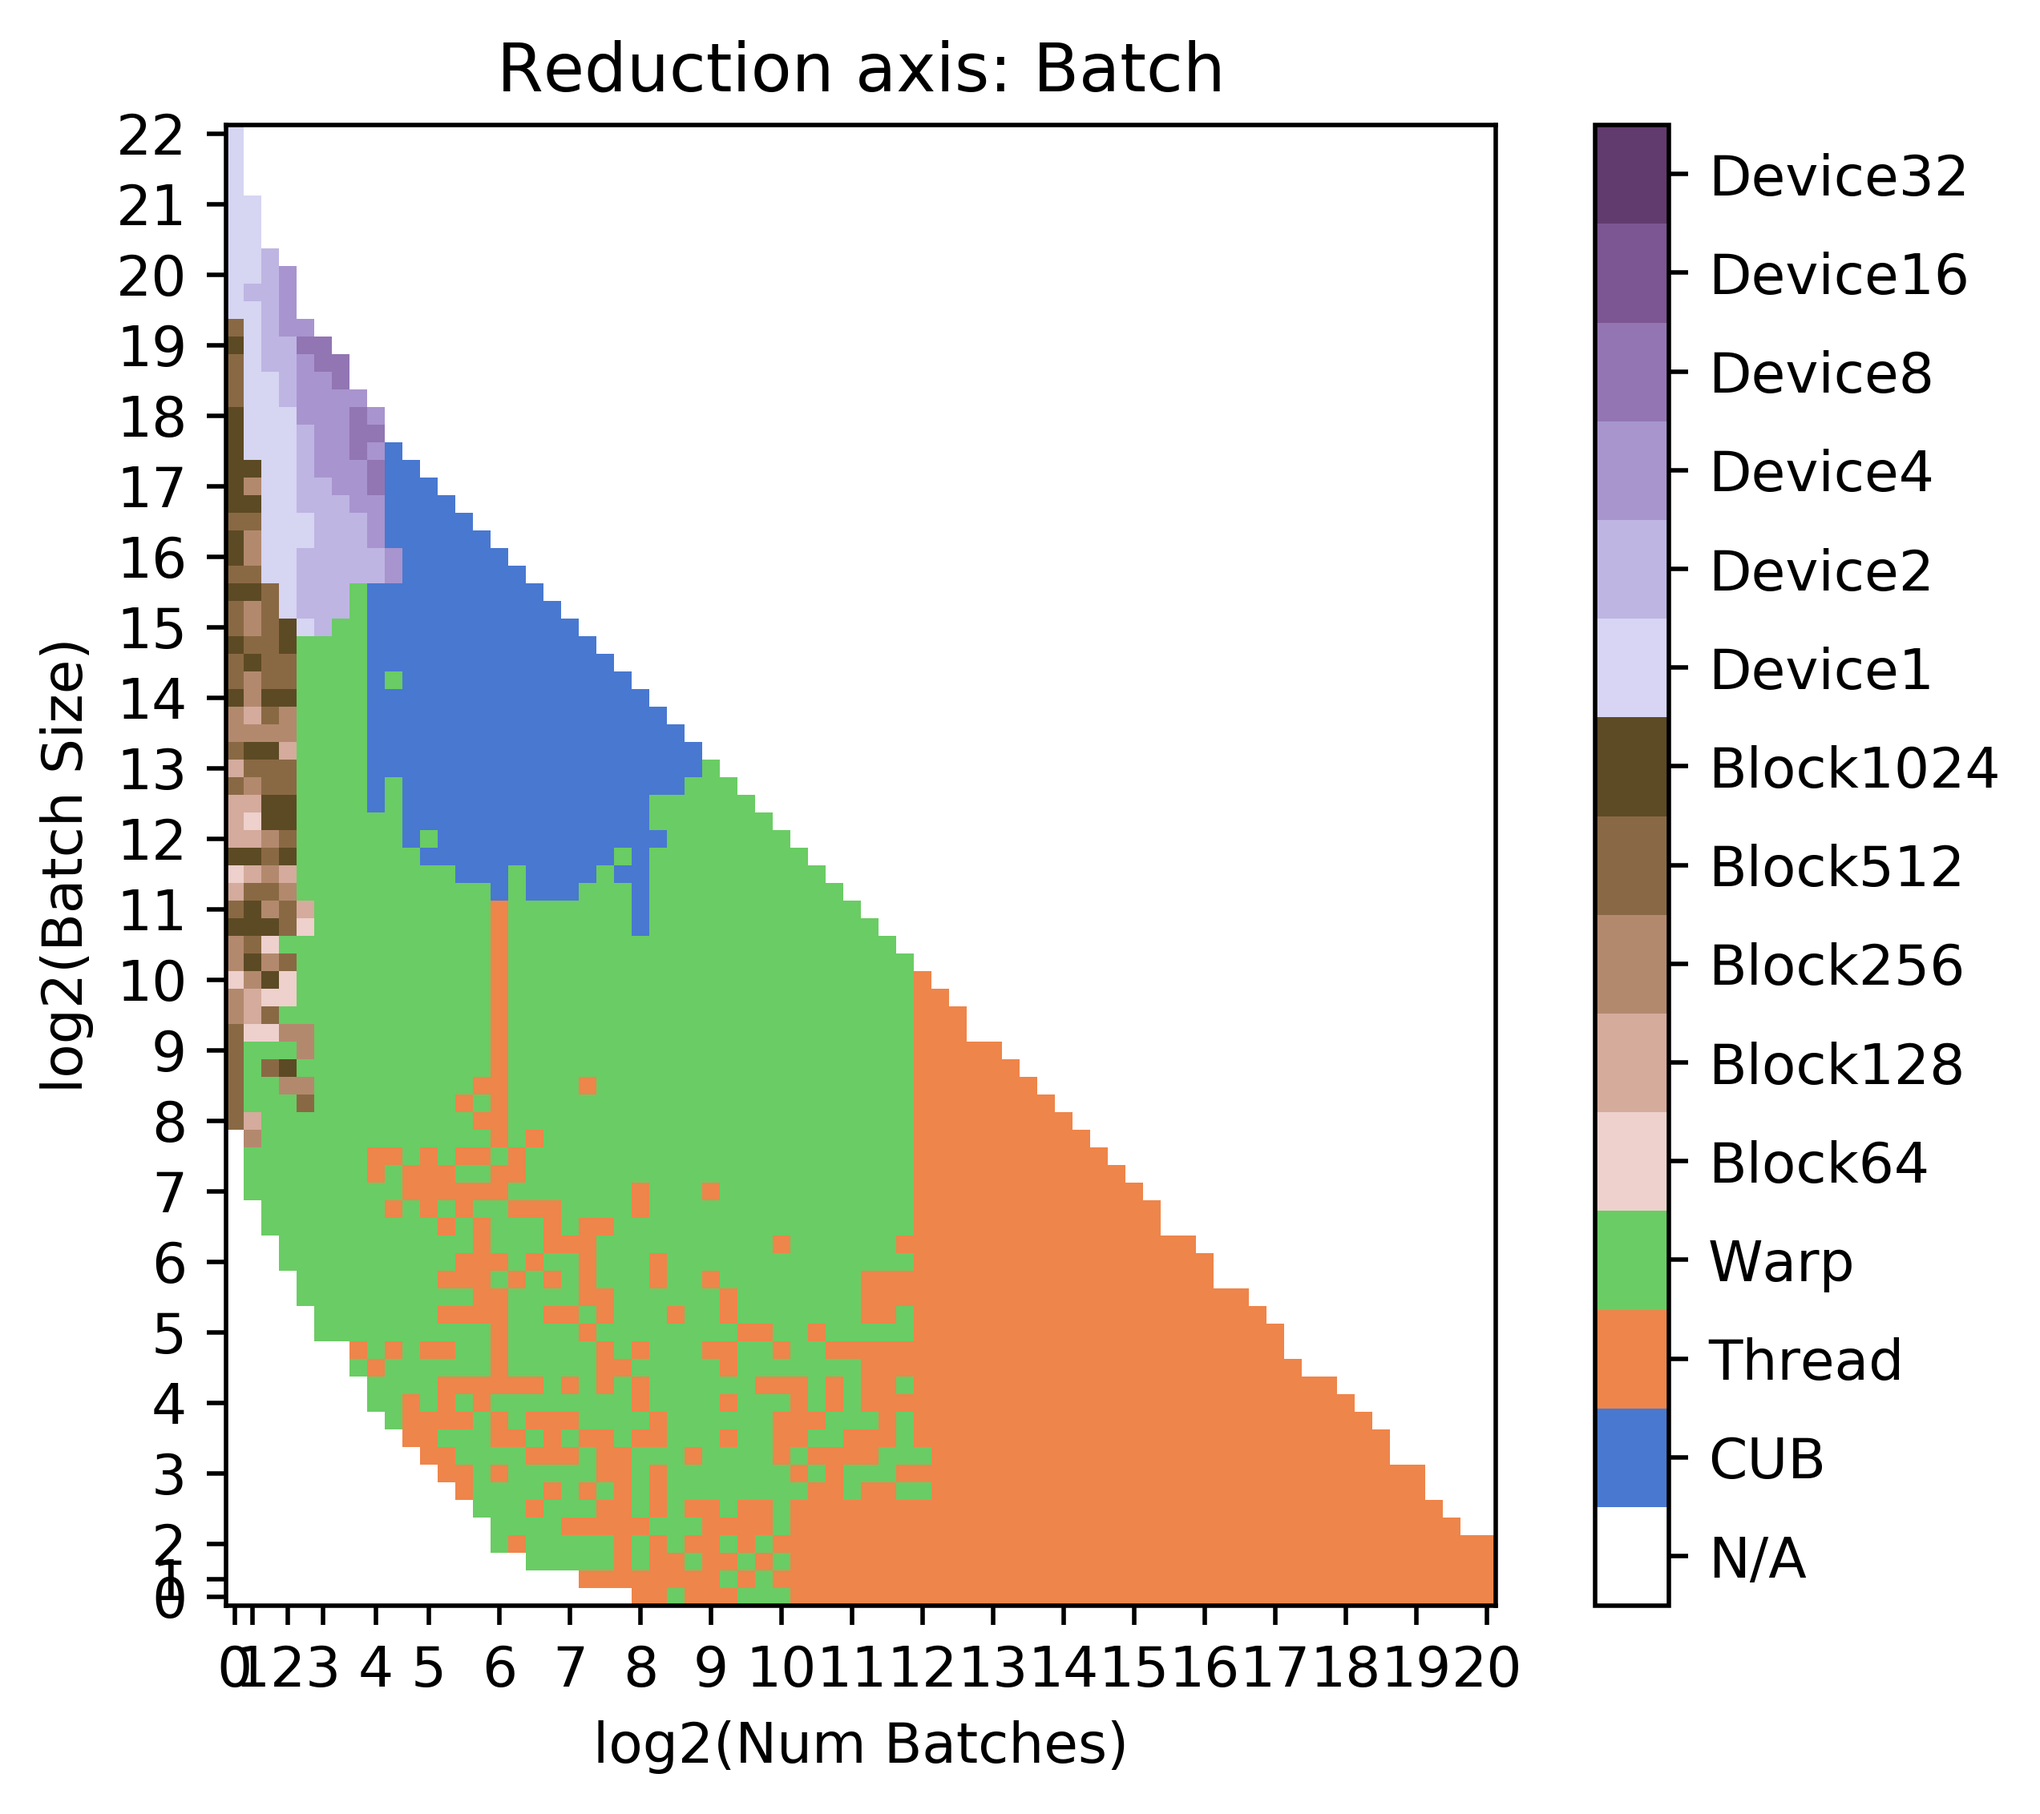
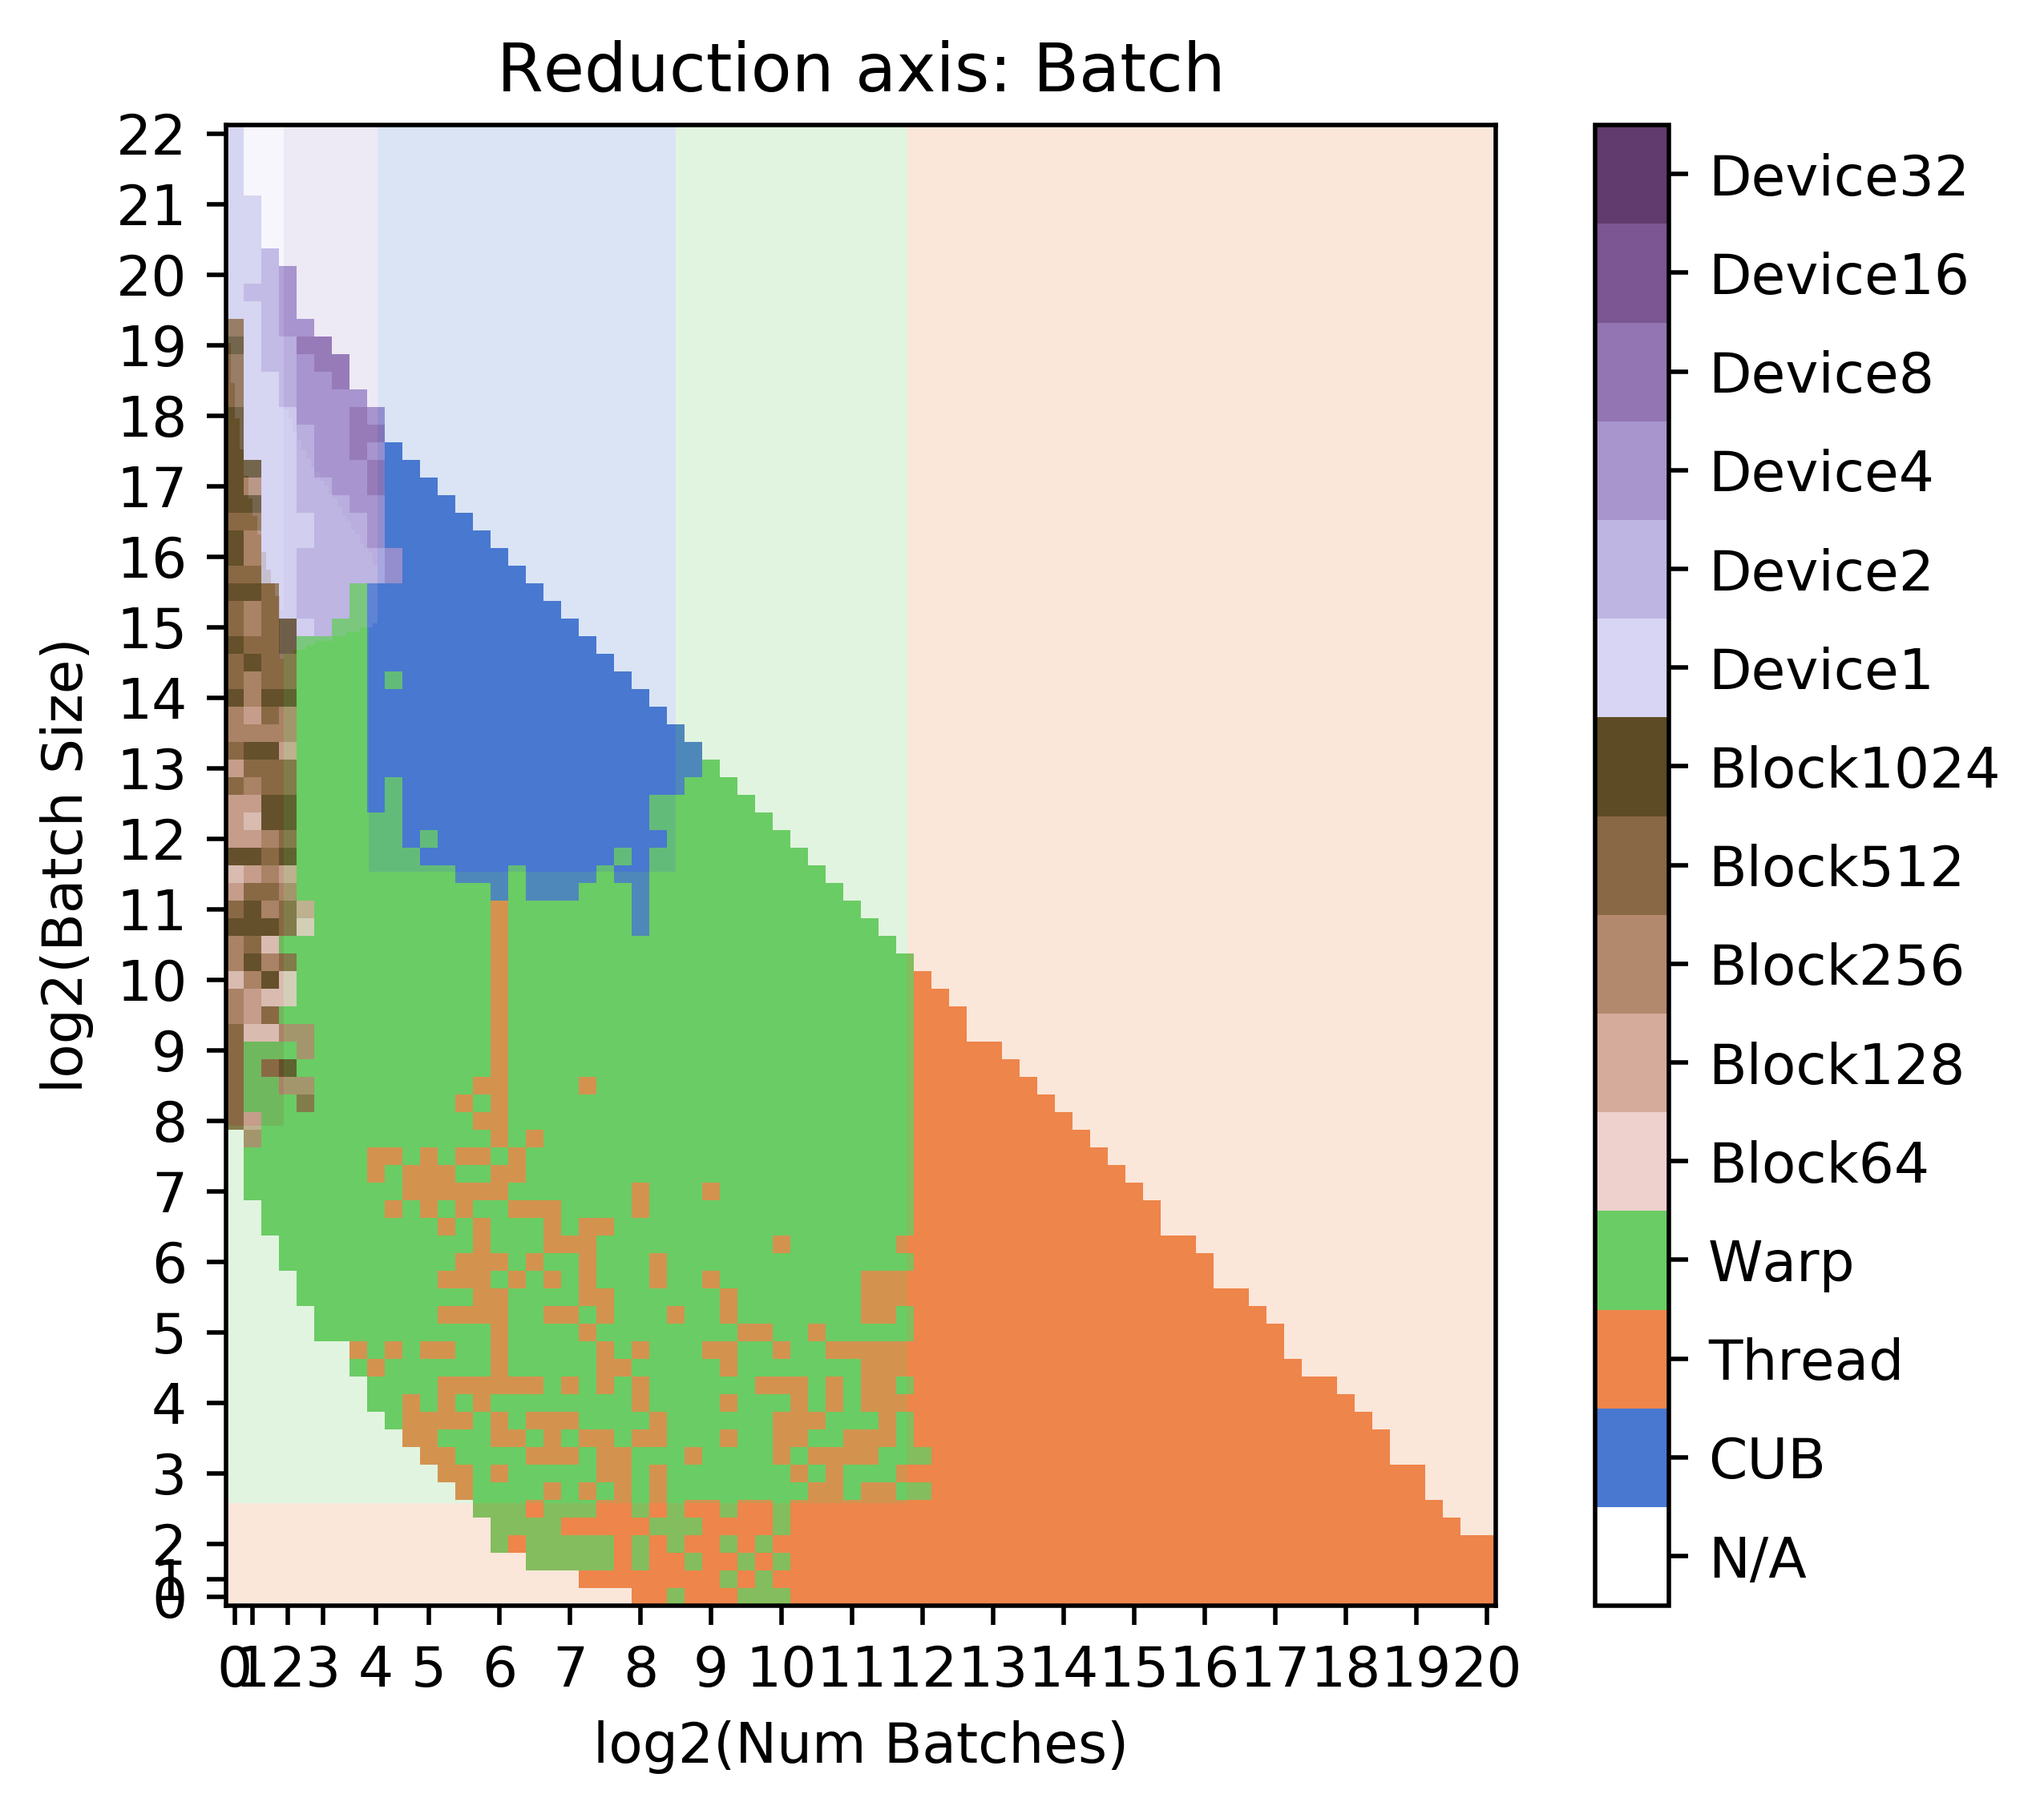
added decisions when to use which algorithm and added it to the plots

diff --git a/benchmarks/batched_reduction/MakePlotsFull.py b/benchmarks/batched_reduction/MakePlotsFull.py
@@ -11,9 +11,18 @@ if len(sys.argv)>2:
     setPath = sys.argv[1]
     title = sys.argv[2]
 else:
-    setPath = "../batched_reductions_full_col"
-    title = "Column" 
+    setPath = "../batched_reductions_full_row"
+    title = "Row" 
 setName = setPath[setPath.rfind('/')+1:]
+
+# get decision function
+from AlgorithmDecision import Algorithm, get_alg_row, get_alg_col, get_alg_batch
+if title=="Row":
+    decisionFun = get_alg_row
+elif title=="Column":
+    decisionFun = get_alg_col
+else:
+    decisionFun = get_alg_batch
 
 # load result file
 resultFile = setPath + ".txt"
@@ -40,12 +49,11 @@ for r in results:
     y = batchSize.index(bs)
     Z[x,y] = np.argmin([r[i] for i in range(2, len(fieldNames))])
 Z = Z.T
-colors = sns.color_palette("muted", len(fieldNames)-1)
-cmap = mpl.colors.ListedColormap( \
-    [(1.0,1.0,1.0)]+ \
+colors = [(1.0,1.0,1.0)]+ \
      sns.color_palette("muted", 3)+ \
      sns.color_palette("ch:4.5,-.2,dark=.3", 5)+ \
-     sns.color_palette("ch:3.5,-.2,dark=.3", 6))
+     sns.color_palette("ch:3.5,-.2,dark=.3", 6)
+cmap = mpl.colors.ListedColormap(colors)
 bounds=[v-1.5 for v in range(len(fieldNames))]
 norm = mpl.colors.BoundaryNorm(bounds, cmap.N)
 
@@ -54,7 +62,7 @@ norm = mpl.colors.BoundaryNorm(bounds, cmap.N)
 #fig.suptitle("Reduction axis: "+title)
 plt.title("Reduction axis: "+title)
 
-# create 3d plot
+# create plot of measurements
 #ax = fig.add_subplot(1, 2, 1)
 ax = plt.gca()
 img = ax.imshow(Z,interpolation='nearest',
@@ -73,6 +81,33 @@ ax.set_yticks([i for i in range(len(batchSize)) if is_power_of_two(batchSize[i])
 ax.set_yticklabels([str(int(math.log2(batchSize[i]))) for i in range(len(batchSize)) if is_power_of_two(batchSize[i])])
 cbar = plt.colorbar(img, cmap=cmap, norm=norm, boundaries=bounds, ticks=range(-1, len(fieldNames)-1))
 cbar.ax.set_yticklabels(['N/A'] + list(fieldNames[2:]))
+
+# plot decisions / clusters
+Xcluster = numBatches
+Ycluster = batchSize
+UPSCALING = 4
+Xcluster = np.interp(
+    [x/UPSCALING for x in range(UPSCALING*(len(Xcluster)-1)+1)],
+    range(len(Xcluster)),
+    Xcluster)
+Ycluster = np.interp(
+    [x/UPSCALING for x in range(UPSCALING*(len(Ycluster)-1)+1)],
+    range(len(Ycluster)),
+    Ycluster)
+print("Xcluster",Xcluster)
+print("Ycluster",Ycluster)
+Zcluster = np.full((len(Xcluster),len(Ycluster)), -1, dtype=np.float)
+for x,nb in enumerate(Xcluster):
+    for y,bs in enumerate(Ycluster):
+        Zcluster[x,y] = decisionFun(nb, bs)-1
+    #break
+Zcluster = Zcluster.T
+ax.imshow(Zcluster,
+                interpolation='nearest',
+                cmap = cmap, norm=norm,
+                origin='lower',
+                alpha=0.2,
+                extent = img.get_extent())
 
 # create cross section
 #ax = fig.add_subplot(1, 2, 2)

diff --git a/benchmarks/batched_reduction/AlgorithmDecision.py b/benchmarks/batched_reduction/AlgorithmDecision.py
@@ -1,0 +1,65 @@
+from enum import IntEnum
+import math
+
+class Algorithm(IntEnum): # values equal the color indices
+    CUB = 1
+    Thread = 2
+    Warp = 3
+    Block512 = 7
+    Device1 = 9
+    Device2 = 10
+    Device4 = 11
+    
+MAX_X = 20
+MAX_Y = 22
+    
+CONDITIONS_ROW = [
+    #(Algorithm, [Condition (a,b,c) s.t. a*nb+b*bs>=c], List of enclosing points)
+    (Algorithm.Device1, [(1.2,1,19.5), (-1,0,-2.5)]),
+    (Algorithm.Device2, [(0.42857142857142855,1,17.821428571428573), (-1,0,-4.25), (1,0,2.5)]),
+    (Algorithm.Device4, [(0,1,16.25),(-1,0,-5.5),(1,0,4.25)]),
+    (Algorithm.Block512,[(-1.6, 1, 8), (-1,0,-5)]),
+    (Algorithm.Thread,  [(0.475, -1, 2.01875), (0, -1, -4.75)]),
+    (Algorithm.Warp,    [])
+]
+
+CONDITIONS_COLUMN = [
+    (Algorithm.Device1, [(1.5,1,19.5), (-1,0,-2.5)]),
+    (Algorithm.Device2, [(0,1,15.5), (1,0,2.5), (-1,0,-4)]),
+    (Algorithm.Device4, [(0,1,15.75), (1,0,4), (-1,0,-5.75)]),
+    (Algorithm.Block512,[(0,1,9), (-1,0,-2.5)]),
+    (Algorithm.Warp,    [(0,1,4), (-1,0,-11.75)]),
+    (Algorithm.Thread,  [])
+]
+
+CONDITIONS_BATCH = [
+    (Algorithm.Device1, [(-1,0,-2), (1.875,1,19)]),
+    (Algorithm.Device4, [(1,0,2), (-1,0,-4.25), (10, 9, 184.25)]),
+    (Algorithm.Device2, [(1,0,2), (-1,0,-4.25), (-0.22222, 1, 14.085555)]),
+    (Algorithm.CUB,     [(1,0,4), (0,1,11.5), (-1,0,-8.5)]),
+    (Algorithm.Block512,[(0,1,8), (-1,0,-2)]),
+    (Algorithm.Warp,    [(0,1,2.75), (-1,0,-11.75)]),
+    (Algorithm.Thread,  [])
+]
+
+def _get_alg(numBatches, batchSize, specs):
+    nb = math.log2(numBatches)
+    bs = math.log2(batchSize)
+    #print(nb,bs,sep=', ')
+    for alg, condx in specs:
+        success = True
+        for a,b,c in condx:
+            #print('  alg=',alg,'; a=',a,', b=',b, ', c=',c,' -> ',a*nb+b*bs, sep='')
+            if not a*nb+b*bs>=c:
+                success = False
+                break
+        if success:
+            #print('  found in alg=',alg,sep='')
+            return alg
+    
+def get_alg_row(numBatches, batchSize):
+    return _get_alg(numBatches, batchSize, CONDITIONS_ROW)
+def get_alg_col(numBatches, batchSize):
+    return _get_alg(numBatches, batchSize, CONDITIONS_COLUMN)
+def get_alg_batch(numBatches, batchSize):
+    return _get_alg(numBatches, batchSize, CONDITIONS_BATCH)
